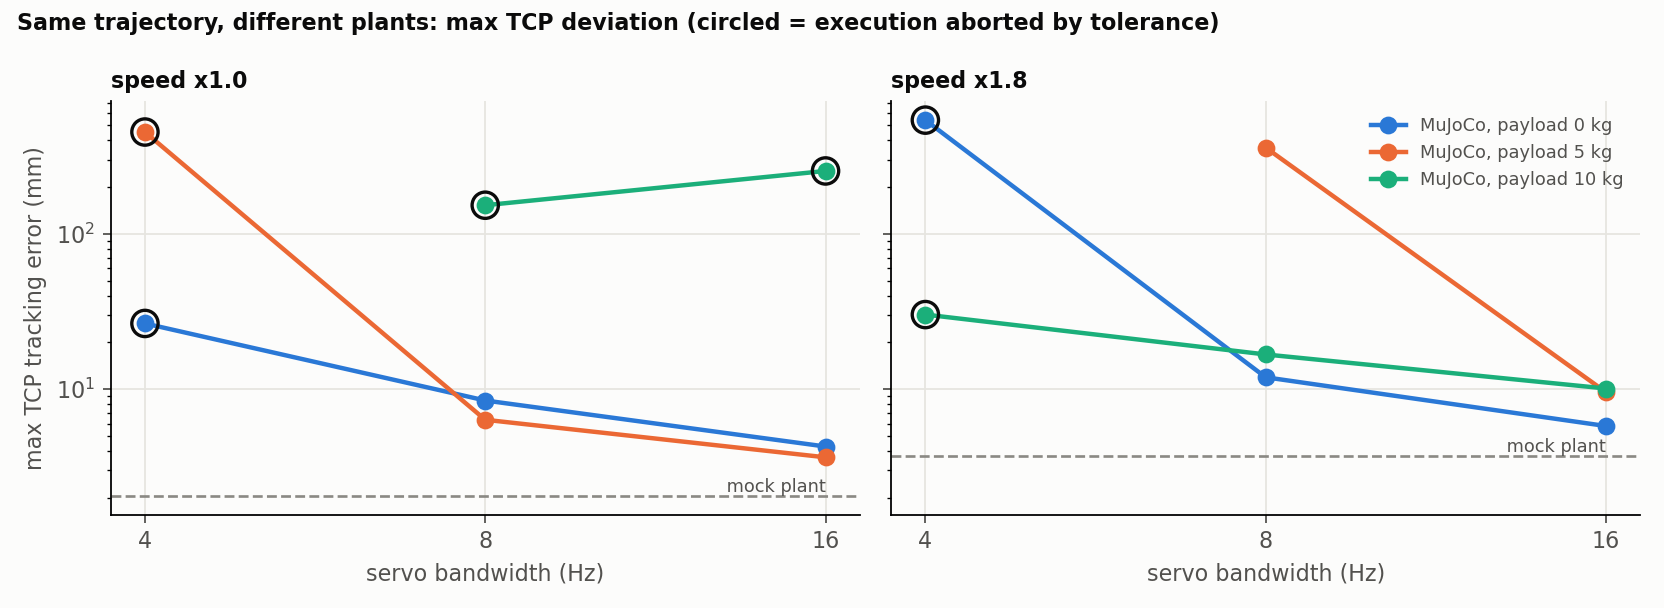
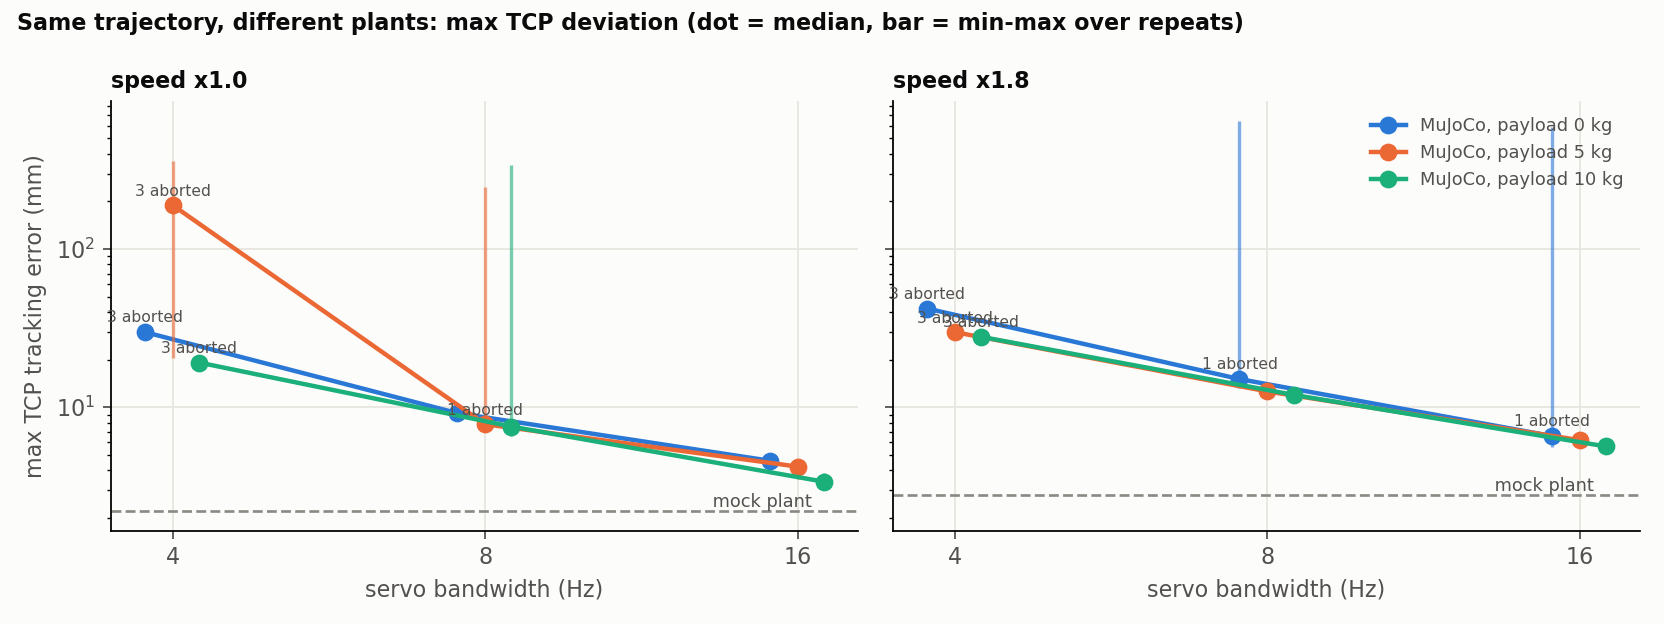
M4 results (run03, clean): tracking error ~ 1/servo bandwidth; M2 re-run timing drift; session log archiving
- 60 paired executions: mock 2.2/2.8 mm; 16 Hz 3.4-6.6 mm; 8 Hz 7.6-15 mm; 4 Hz all aborted by JTC tolerance
- payload compensated by construction (inertia-scaled gains + perfect feed-forward) -> next: payload mismatch
- 7/60 intermittent MoveIt -4 aborts (also on mock), not reproducible in 8 dedicated runs: open issue
- M2 benchmark re-run slower by 2.7x on the same laptop (battery 7%, cause unverified): cross-session
  timing not comparable; planner ranking unchanged
- m2_session archives every session log to data/sessions/

diff --git a/docs/M4_MUJOCO.md b/docs/M4_MUJOCO.md
@@ -50,5 +50,23 @@ Lessons:
 - **A real-time simulator is only valid while it keeps real time.** Measure and report that per run; otherwise CPU contention shows up as "dynamics".
 - The M2 planner benchmark run02 also ran with orphaned monitors present, so it is being re-run (run03) for comparison.
 
-## Results
-See §Results (written from `data/reports/m4/run02`).
+## Results (run03, clean environment, SIMULATED data)
+Design: one RRTConnect trajectory (wall/sweep_60, 4.6 s at 0.3× speed scaling), replayed unchanged. Conditions: mock plant, then MuJoCo with servo bandwidth {4, 8, 16} Hz × payload {0, 5, 10} kg × speed {1.0, 1.8}, **3 repeats each** (60 executions). Load average during the study ≤ 1.27; plant real-time lag during moves: median 2.2 ms.
+Full table: `docs/evidence/m4/m4_run03_summary.md`.
+
+![tracking](../assets/m4/tracking_tcp_max.png)
+
+| Servo bandwidth | Max TCP error, median (speed 1.0 / 1.8) | Executions completed | Start latency |
+|---|---|---|---|
+| mock (no dynamics) | 2.2 / 2.8 mm | 5/6 (1 unexplained abort, see below) | 26–28 ms |
+| 4 Hz | 19–189 / 28–42 mm | **0/18**: JTC aborts (trajectory tolerance 0.15 rad); 2 runs could not even reach the start pose | 48–97 ms |
+| 8 Hz | 7.6–9.2 / 12.0–15.1 mm | 15/18 | 30–40 ms |
+| 16 Hz | 3.4–4.6 / 5.7–6.6 mm | 17/18 | 28–30 ms |
+
+Findings (under the stated dynamics assumptions):
+1. **Tracking error ≈ 1/bandwidth.** 8 → 16 Hz halves the error (9.2 → 4.6 mm at no payload). 1.8× speed raises it by about 1.5×. A 4 Hz servo cannot track a 0.3×-speed TOTG trajectory within a 0.15 rad tolerance.
+2. **Payload barely matters here, and that is an artefact of the model.** The servo gains scale with the effective inertia *including* the payload, and the gravity/Coriolis feed-forward is perfect, so a known payload is fully compensated (errors even shrink slightly with payload). On a real Dobot this corresponds to a *correctly configured* `SetPayload`. The informative next experiment is a **payload mismatch** (true mass ≠ configured mass).
+3. Torque saturation disappeared in the clean environment, except J3 at 16 Hz / 10 kg / 1.8× (51 steps). The saturation seen in run02 was mostly caused by the plant losing real time.
+4. Even the best physics case (16 Hz, 3.4–6.6 mm) is about 2× the mock. Every planner-level clearance from M2 (median 1–2 cm) has to budget for **model error (M1, ≤ 5.5 mm before calibration) + tracking error (this study, 3–15 mm)**. Padding ≥ 2 cm is the minimum.
+
+Open issue: 7 of 60 executions (including 1 on the mock plant) aborted with MoveIt code −4 at an unexplained moment, while the other repeats of the same condition were tight. 8 dedicated repeats on the mock afterwards: 0 failures. The cause is unknown and not plant-related. Session logs are now archived (`data/sessions/`) so the next occurrence is diagnosable. Statistics use the per-condition median, and aborts are counted, not hidden.

diff --git a/docs/evidence/m2_planning_benchmark_run03_summary.md b/docs/evidence/m2_planning_benchmark_run03_summary.md
@@ -1,0 +1,32 @@
+| scene | planner | success | plan time median [p90] (s) | joint path median (rad) | TCP path median (m) | duration median (s) | min clearance median: est [capsule LB] (m) |
+|---|---|---|---|---|---|---|---|
+| wall | RRTConnect | 10/10 | 0.079 [0.115] | 4.72 | 2.08 | 4.39 | 0.109 [-0.039] |
+| wall | RRT | 0/10 | - | - | - | - | - [-] |
+| wall | RRTstar | 0/10 | - | - | - | - | - [-] |
+| wall | BiTRRT | 0/10 | - | - | - | - | - [-] |
+| wall | PRM | 10/10 | 0.242 [0.758] | 6.70 | 2.28 | 6.32 | 0.109 [-0.039] |
+| wall | PRMstar | 10/10 | 2.061 [2.092] | 4.44 | 2.12 | 4.39 | 0.108 [-0.039] |
+| wall | KPIECE | 10/10 | 0.246 [0.337] | 3.83 | 1.96 | 3.81 | 0.109 [-0.039] |
+| wall | BKPIECE | 6/10 | 1.379 [2.125] | 3.99 | 1.73 | 3.99 | 0.011 [-0.059] |
+| wall | EST | 10/10 | 0.161 [0.435] | 4.57 | 2.18 | 4.72 | 0.109 [-0.039] |
+| wall | SBL | 9/10 | 1.458 [2.023] | 5.07 | 2.17 | 4.55 | 0.010 [-0.054] |
+| window | RRTConnect | 11/15 | 0.848 [1.290] | 7.26 | 1.05 | 5.90 | 0.012 [-0.071] |
+| window | RRT | 0/15 | - | - | - | - | - [-] |
+| window | RRTstar | 0/15 | - | - | - | - | - [-] |
+| window | BiTRRT | 0/15 | - | - | - | - | - [-] |
+| window | PRM | 1/15 | 0.782 [0.782] | 10.46 | 1.70 | 7.50 | 0.005 [-0.061] |
+| window | PRMstar | 0/15 | - | - | - | - | - [-] |
+| window | KPIECE | 0/15 | - | - | - | - | - [-] |
+| window | BKPIECE | 2/15 | 1.707 [1.736] | 7.46 | 1.47 | 5.34 | 0.007 [-0.070] |
+| window | EST | 1/15 | 0.987 [0.987] | 5.00 | 0.98 | 4.27 | 0.008 [-0.073] |
+| window | SBL | 10/15 | 1.401 [2.050] | 7.43 | 1.18 | 5.75 | 0.019 [-0.057] |
+| shelf | RRTConnect | 14/15 | 0.365 [0.953] | 10.45 | 3.38 | 9.95 | 0.006 [-0.055] |
+| shelf | RRT | 2/15 | 1.177 [1.490] | 8.24 | 3.27 | 8.18 | 0.011 [-0.052] |
+| shelf | RRTstar | 0/15 | - | - | - | - | - [-] |
+| shelf | BiTRRT | 0/15 | - | - | - | - | - [-] |
+| shelf | PRM | 1/15 | 0.464 [0.464] | 9.84 | 3.50 | 8.95 | 0.000 [-0.099] |
+| shelf | PRMstar | 3/15 | 2.127 [2.139] | 11.60 | 3.88 | 10.43 | 0.017 [-0.065] |
+| shelf | KPIECE | 2/15 | 1.109 [1.156] | 10.03 | 2.92 | 9.83 | 0.011 [-0.057] |
+| shelf | BKPIECE | 4/15 | 0.971 [1.405] | 8.37 | 3.21 | 7.70 | 0.012 [-0.056] |
+| shelf | EST | 8/15 | 0.678 [1.512] | 9.98 | 2.16 | 8.99 | 0.009 [-0.056] |
+| shelf | SBL | 13/15 | 1.202 [1.976] | 11.31 | 4.03 | 10.11 | 0.007 [-0.058] |

diff --git a/docs/evidence/m4/m4_run03_summary.md b/docs/evidence/m4/m4_run03_summary.md
@@ -1,0 +1,22 @@
+| condition | speed | runs | aborted | TCP max median [min, max] (mm) | TCP rms median (mm) | start latency median (ms) | torque-saturated steps (median, J1..J6) |
+|---|---|---|---|---|---|---|---|
+| mj_bw16_pl0 | 1.0 | 3 | 0 | 4.60 [4.21, 4.96] | 1.84 | 28 | [0, 0, 0, 0, 0, 0] |
+| mj_bw16_pl0 | 1.8 | 3 | 1 | 6.58 [5.64, 586.78] | 3.06 | 30 | [0, 0, 0, 0, 0, 0] |
+| mj_bw16_pl10 | 1.0 | 3 | 0 | 3.39 [3.11, 3.83] | 1.44 | 28 | [0, 0, 0, 0, 0, 0] |
+| mj_bw16_pl10 | 1.8 | 3 | 0 | 5.66 [5.13, 6.25] | 2.73 | 28 | [0, 0, 51, 0, 0, 0] |
+| mj_bw16_pl5 | 1.0 | 3 | 0 | 4.22 [3.52, 4.36] | 1.85 | 30 | [0, 0, 0, 0, 0, 0] |
+| mj_bw16_pl5 | 1.8 | 3 | 0 | 6.20 [5.78, 6.42] | 2.78 | 28 | [0, 0, 0, 0, 0, 0] |
+| mj_bw4_pl0 | 1.0 | 3 | 3 (1 could not even position) | 29.87 [29.46, 30.27] | 20.18 | 77 | [0, 0, 0, 0, 0, 0] |
+| mj_bw4_pl0 | 1.8 | 3 | 3 | 42.09 [41.71, 42.45] | 28.41 | 68 | [0, 0, 0, 0, 0, 0] |
+| mj_bw4_pl10 | 1.0 | 3 | 3 | 19.18 [18.33, 19.21] | 13.06 | 56 | [0, 0, 0, 0, 0, 0] |
+| mj_bw4_pl10 | 1.8 | 3 | 3 | 27.88 [27.10, 28.71] | 18.59 | 48 | [0, 0, 0, 0, 0, 0] |
+| mj_bw4_pl5 | 1.0 | 3 | 3 (1 could not even position) | 189.17 [20.41, 357.93] | 83.45 | 97 | [0, 0, 0, 0, 0, 0] |
+| mj_bw4_pl5 | 1.8 | 3 | 3 | 29.85 [29.18, 30.41] | 20.06 | 52 | [0, 0, 0, 0, 0, 0] |
+| mj_bw8_pl0 | 1.0 | 3 | 0 | 9.19 [8.88, 9.44] | 5.61 | 40 | [0, 0, 0, 0, 0, 0] |
+| mj_bw8_pl0 | 1.8 | 3 | 1 | 15.08 [13.86, 645.90] | 8.67 | 38 | [0, 0, 0, 0, 0, 0] |
+| mj_bw8_pl10 | 1.0 | 3 | 0 | 7.55 [6.63, 338.64] | 4.02 | 30 | [0, 0, 0, 0, 0, 0] |
+| mj_bw8_pl10 | 1.8 | 3 | 0 | 11.98 [11.54, 12.04] | 6.40 | 32 | [0, 0, 0, 0, 0, 0] |
+| mj_bw8_pl5 | 1.0 | 3 | 1 | 7.81 [6.96, 247.64] | 4.30 | 36 | [0, 0, 0, 0, 0, 0] |
+| mj_bw8_pl5 | 1.8 | 3 | 0 | 12.59 [12.02, 13.17] | 6.81 | 34 | [0, 0, 0, 0, 0, 0] |
+| mock | 1.0 | 3 | 1 | 2.20 [2.17, 322.20] | 0.87 | 26 | - |
+| mock | 1.8 | 3 | 0 | 2.79 [2.44, 145.21] | 1.17 | 28 | - |

diff --git a/docs/M2_PLANNING_LAB.md b/docs/M2_PLANNING_LAB.md
@@ -137,6 +137,14 @@ clearance 的局限：
 
 教训：**在比较规划器之前，先验证测量装置本身**（单一服务端、检查分辨率、查询余量）。run01 的"规划器排名"几乎完全是这些实验假象造成的。
 
+### 6.3b 复测（run03，2026-10-27）：同一台机器上的计时漂移
+怀疑 run02 期间残留的监视进程（见 M4 失败分析 #6）拖慢了规划，于是在干净环境下重跑了一遍。**结果和预期相反：run03 总耗时 2274 s，而 run02 是 834 s**；规划时间中位数普遍高出 1.5–3 倍，所以 2 s 预算内的成功率也更低（`docs/evidence/m2_planning_benchmark_run03_summary.md`）。M2 期间机器人是静止的，监视进程基本空闲，所以 run02 并没有被明显拖慢。真正的问题是**这台笔记本在不同时段的算力差异很大**：复测时电池电量 7%，电源和温度状态未知，**无法事后证实原因**。
+
+结论：
+- 跨时段的绝对规划时间不可比，只能比较同一轮内的结果。
+- 两轮共同成立的结论保留：RRTConnect 与 SBL 最可靠；RRT、RRT*、BiTRRT 在点目标、2 s 预算下几乎失败；PRM 在狭窄通道中失败。
+- 以后的计时实验要记录 CPU 和电源状态，并在同一轮内交替运行各个规划器。
+
 ### 6.4 局限
 - mock 硬件没有动力学，执行跟踪误差（`execute_demo`）不代表真机。
 - 每个查询只重复 5 次，成功率的置信区间较宽（例如 14/15 的 95% 区间约为 0.70–1.0），用来区分规划器之间的大差异足够，但不适合排列相近规划器的先后。

diff --git a/docs/PROGRESS.md b/docs/PROGRESS.md
@@ -125,3 +125,12 @@ powershell -File scripts/capture_rviz_window.ps1 -Out assets/screenshots/...
 - 解读：复现的是**控制器的标定模型**，不是外部测量意义上的绝对精度
 - 所有 launch 默认改为 `calibrated:=true`；单元测试 90/90 通过；集成测试 run07 全部阶段通过
 - 踩坑：XML 注释里不能出现 `--`（生成文件头写了 `--write-urdf`，导致 xacro 解析失败）；生成器自己依赖被生成的文件，出现先有鸡还是先有蛋的问题；`crosscheck_bag` 默认算到 Link6，漏掉了 1.5 mm 的法兰偏移，表现为恒定的 1.5 mm 误差
+
+---
+
+## 2026-10-27（下午）— M4 MuJoCo 被控对象 + 跟踪实验
+
+- MuJoCo 3.3.7 被控对象接到 ros2_control 下面，MoveIt 及以上一行不改；单元测试 100/100
+- 失败分析（详见 M4_MUJOCO）：线程内的 import 遮蔽（物理线程死掉但节点看起来正常）；JTC 没设容差时会把"没动"判为成功；按到达时间做速度差分引起发散；定位失败的运行被静默丢弃；**33 个孤儿监视进程把负载推到 26，run02 作废**
+- run03（干净环境）：误差约与 1/伺服带宽 成正比（8→16 Hz：9.2→4.6 mm）；4 Hz 全部中止；已知负载被完全补偿（模型假设导致的）；60 次执行中有 7 次间歇性 −4 中止，原因未查明（mock 上也出现过）
+- M2 复测（run03）比 run02 慢 2.7 倍，原因未能证实（复测时电池 7%）→ 跨时段计时不可比，规划器排名结论不变

diff --git a/docs/ROADMAP.md b/docs/ROADMAP.md
@@ -30,7 +30,8 @@
 ## M4 — 仿真器分工（MuJoCo 进行中）
 - [x] MuJoCo 被控对象接入 ros2_control（topic_based），MoveIt 及以上一行不改；MJCF 在运行时由同一份 URDF 生成
 - [x] 伺服驱动模型（基于惯量推增益、按发送端时间戳做前馈、重力补偿、力矩饱和）；JTC 容差
-- [ ] 配对跟踪实验 run02（带宽 × 负载 × 速度，每个条件重复 3 次）→ `docs/M4_MUJOCO.md`
+- [x] 配对跟踪实验 run03（带宽 × 负载 × 速度，每个条件重复 3 次）：误差约与 1/带宽 成正比；4 Hz 全部中止
+- [ ] 负载失配实验（真实质量 ≠ 配置的负载）；查清间歇性 −4 中止的根因
 - [ ] 动力学参数辨识：在只读模式下录真机的 `m_actual` / `i_actual`（需要你在现场让机器人自己运行一段程序），用来修正 24.8 kg 与 40 kg 之间的质量差异和摩擦
 - [ ] RL 环境（reach / obstacle avoidance），复用同一个 MJCF
 - Gazebo（ros_gz，隔离环境）：系统级仿真

diff --git a/README.md b/README.md
@@ -30,7 +30,7 @@ valid state and the HUD turns red with the reason.*
 | CR10A kinematic model | ✅ official `cr10` geometry: FK vs controller 1.6–3.0 mm RMS, 5.5 mm max over 41k real samples |
 | M2 MoveIt planning lab (sim) | ✅ 400-plan OMPL benchmark ([report](docs/M2_PLANNING_LAB.md)) |
 | CR10A kinematic alignment | ✅ controller model recovered from on-site data: held-out 0.002–0.011 mm ([details](docs/CALIBRATION.md)) |
-| M4 MuJoCo physics plant | 🔄 behind ros2_control, MoveIt unchanged; tracking study in progress ([details](docs/M4_MUJOCO.md)) |
+| M4 MuJoCo physics plant | ✅ behind ros2_control, MoveIt unchanged; 60-run tracking study: error ∝ 1/servo bandwidth ([details](docs/M4_MUJOCO.md)) |
 
 ## Quick start (Windows 11 + WSL2)
 
